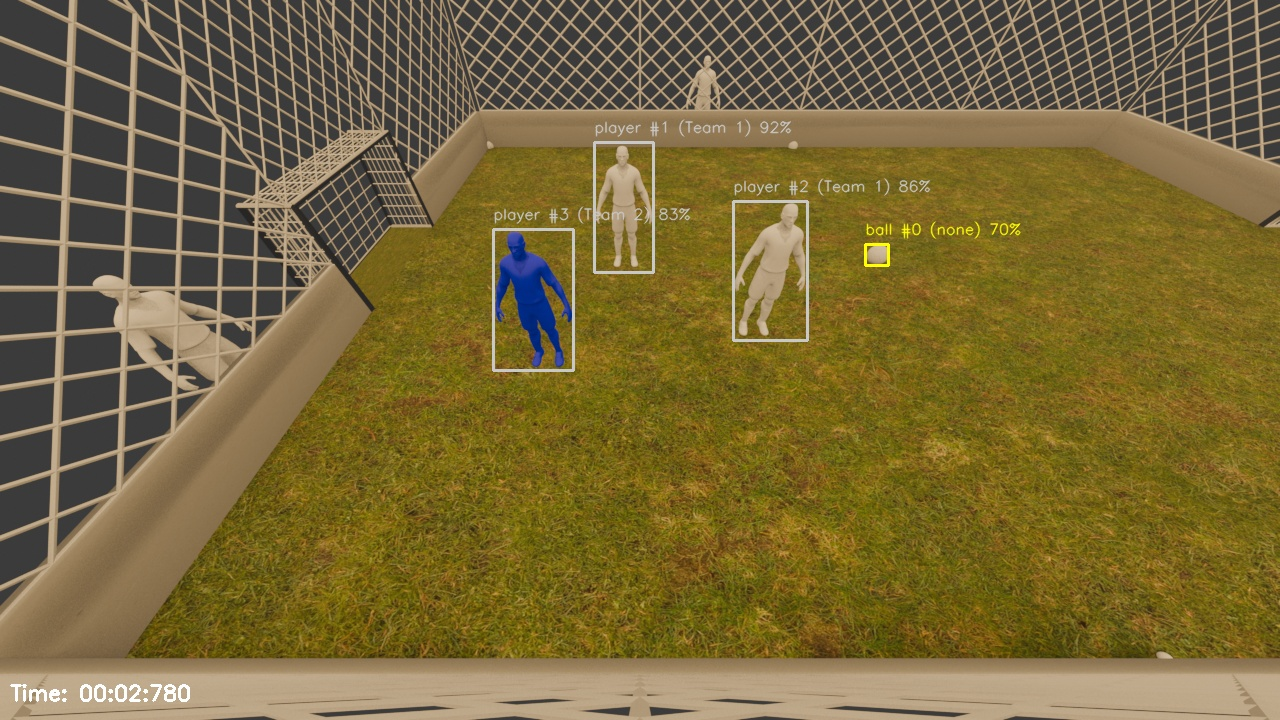
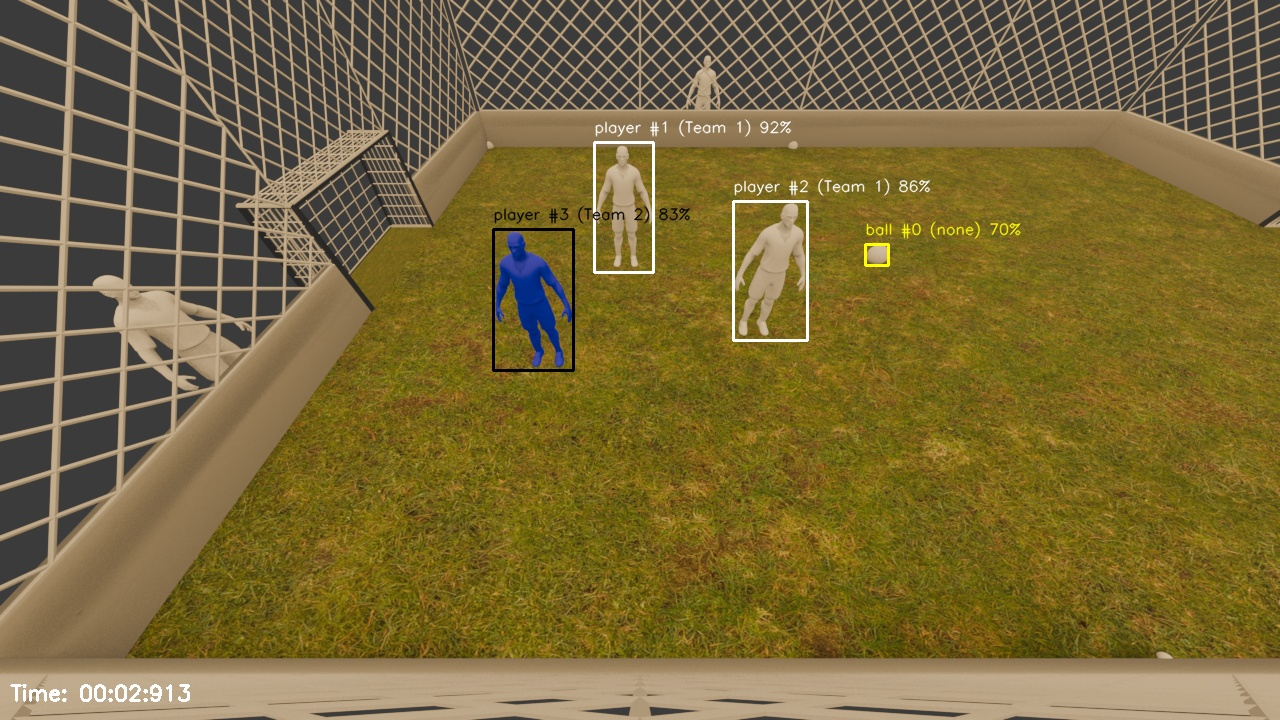
update

diff --git a/utils/annotate_frame.py b/utils/annotate_frame.py
@@ -25,10 +25,10 @@ def annotate_frame(frame, entries):
             # Choose color based on object type and team
             if entry["object_type"] == "ball":
                 color = (0, 255, 255)  # Yellow
-            elif entry["team"] == "team1":
-                color = (255, 0, 0)    # Blue
-            elif entry["team"] == "team2":
-                color = (0, 0, 255)    # Red
+            elif entry["team"] == "Team 1":
+                color = (255, 255, 255)    # White
+            elif entry["team"] == "Team 2":
+                color = (0, 0, 0)    # Black
             else:
                 color = (200, 200, 200)  # Gray for unknown
 
